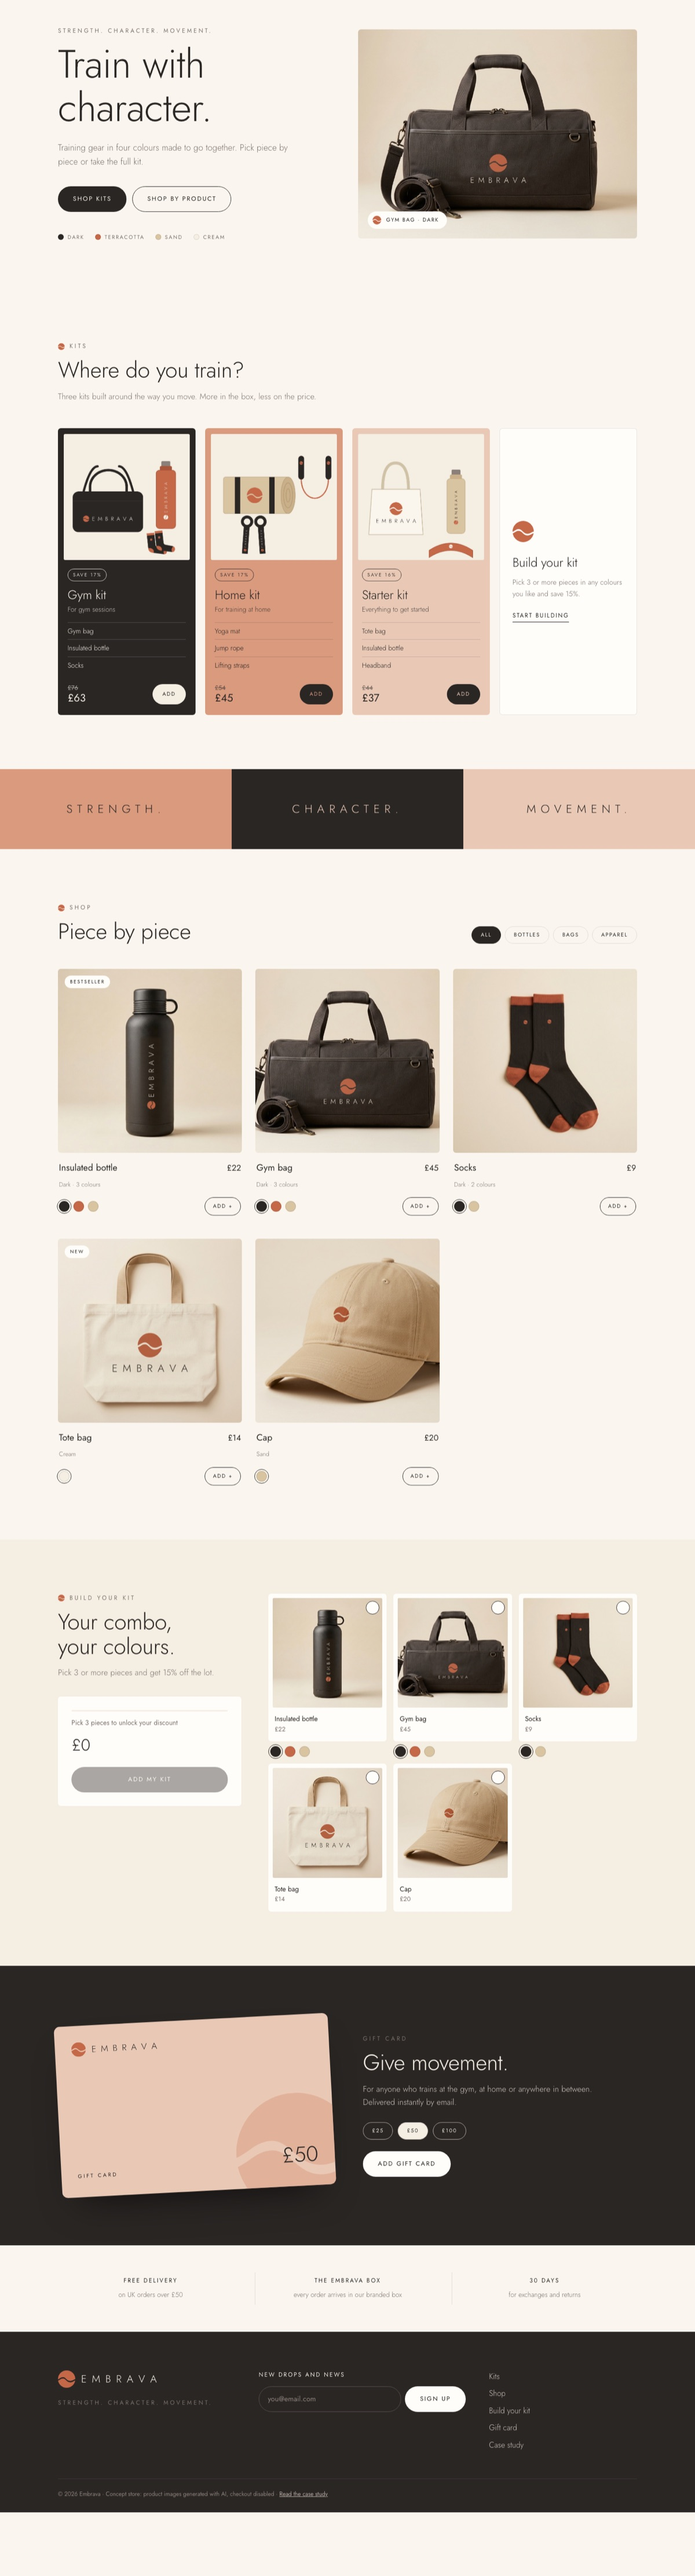
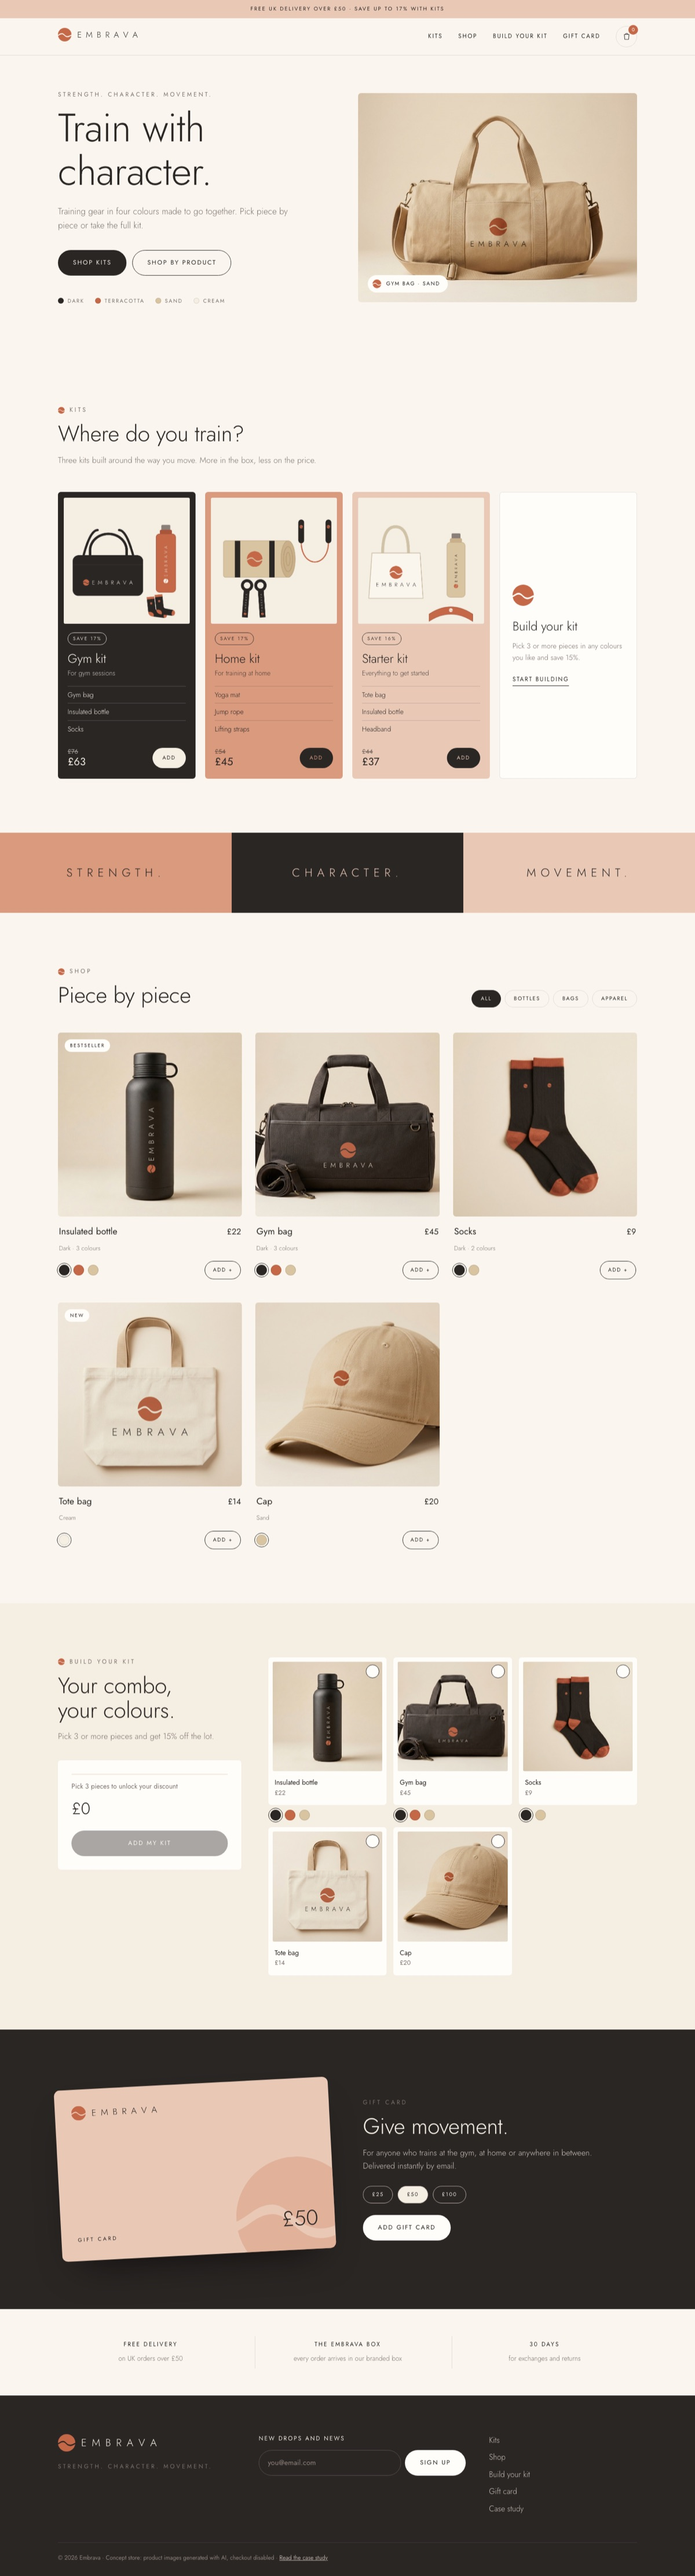
Use the sand gym bag in the hero for a lighter, cleaner look

diff --git a/index.html b/index.html
@@ -60,10 +60,10 @@
         </ul>
       </div>
       <div class="hero__media">
-        <img src="assets/img/bag_dark.jpg" alt="Embrava gym bag in dark" class="hero__img" width="900" height="672">
+        <img src="assets/img/bag_sand.jpg" alt="Embrava gym bag in sand" class="hero__img" width="900" height="672">
         <div class="hero__tag">
           <svg class="mono" viewBox="0 0 164 164" aria-hidden="true"><use href="#symbol"/></svg>
-          <span>Gym bag · Dark</span>
+          <span>Gym bag · Sand</span>
         </div>
       </div>
     </div>
